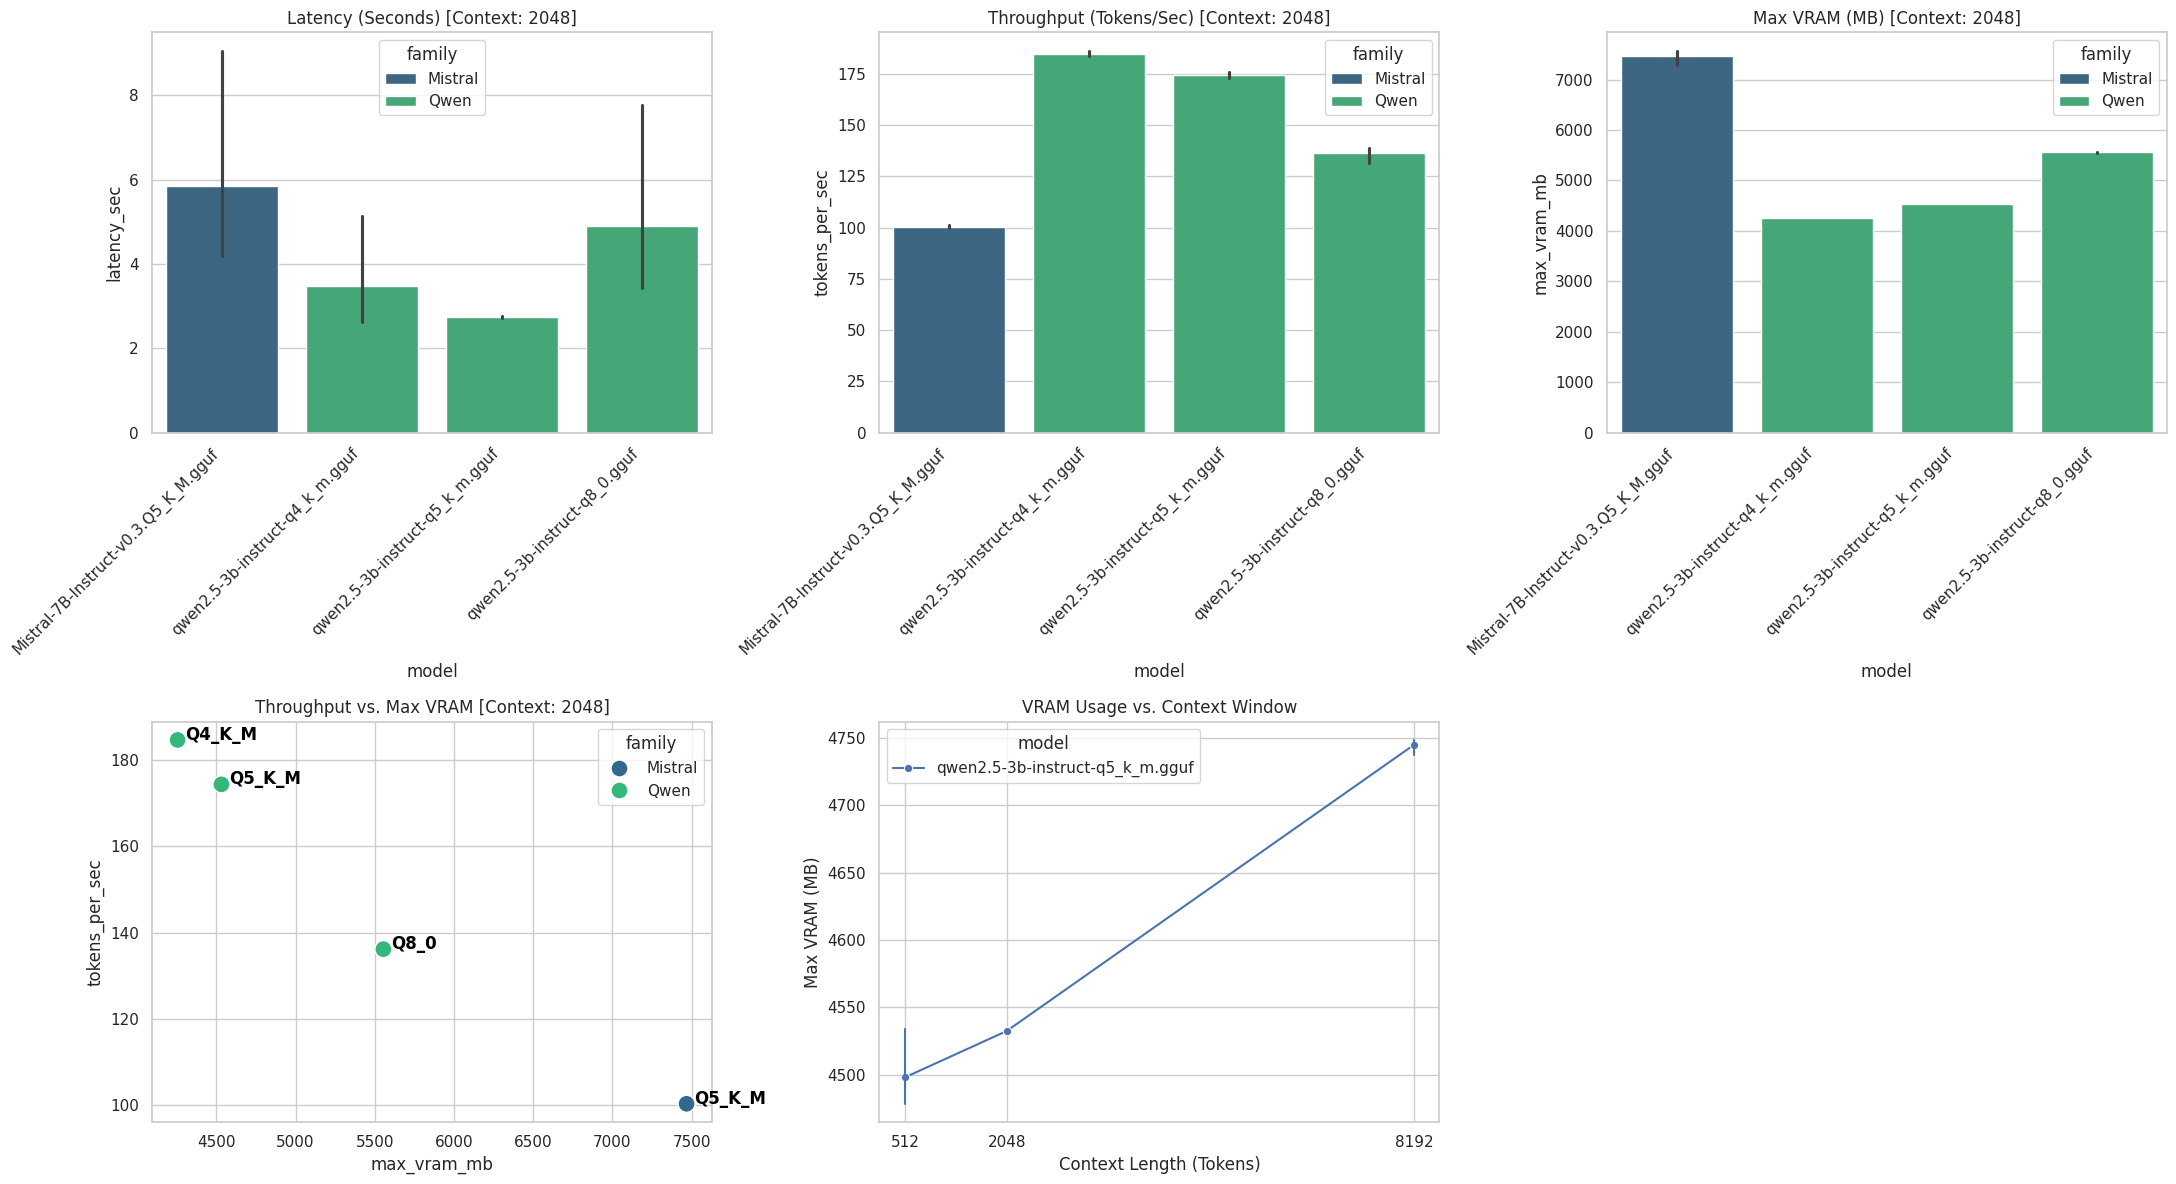
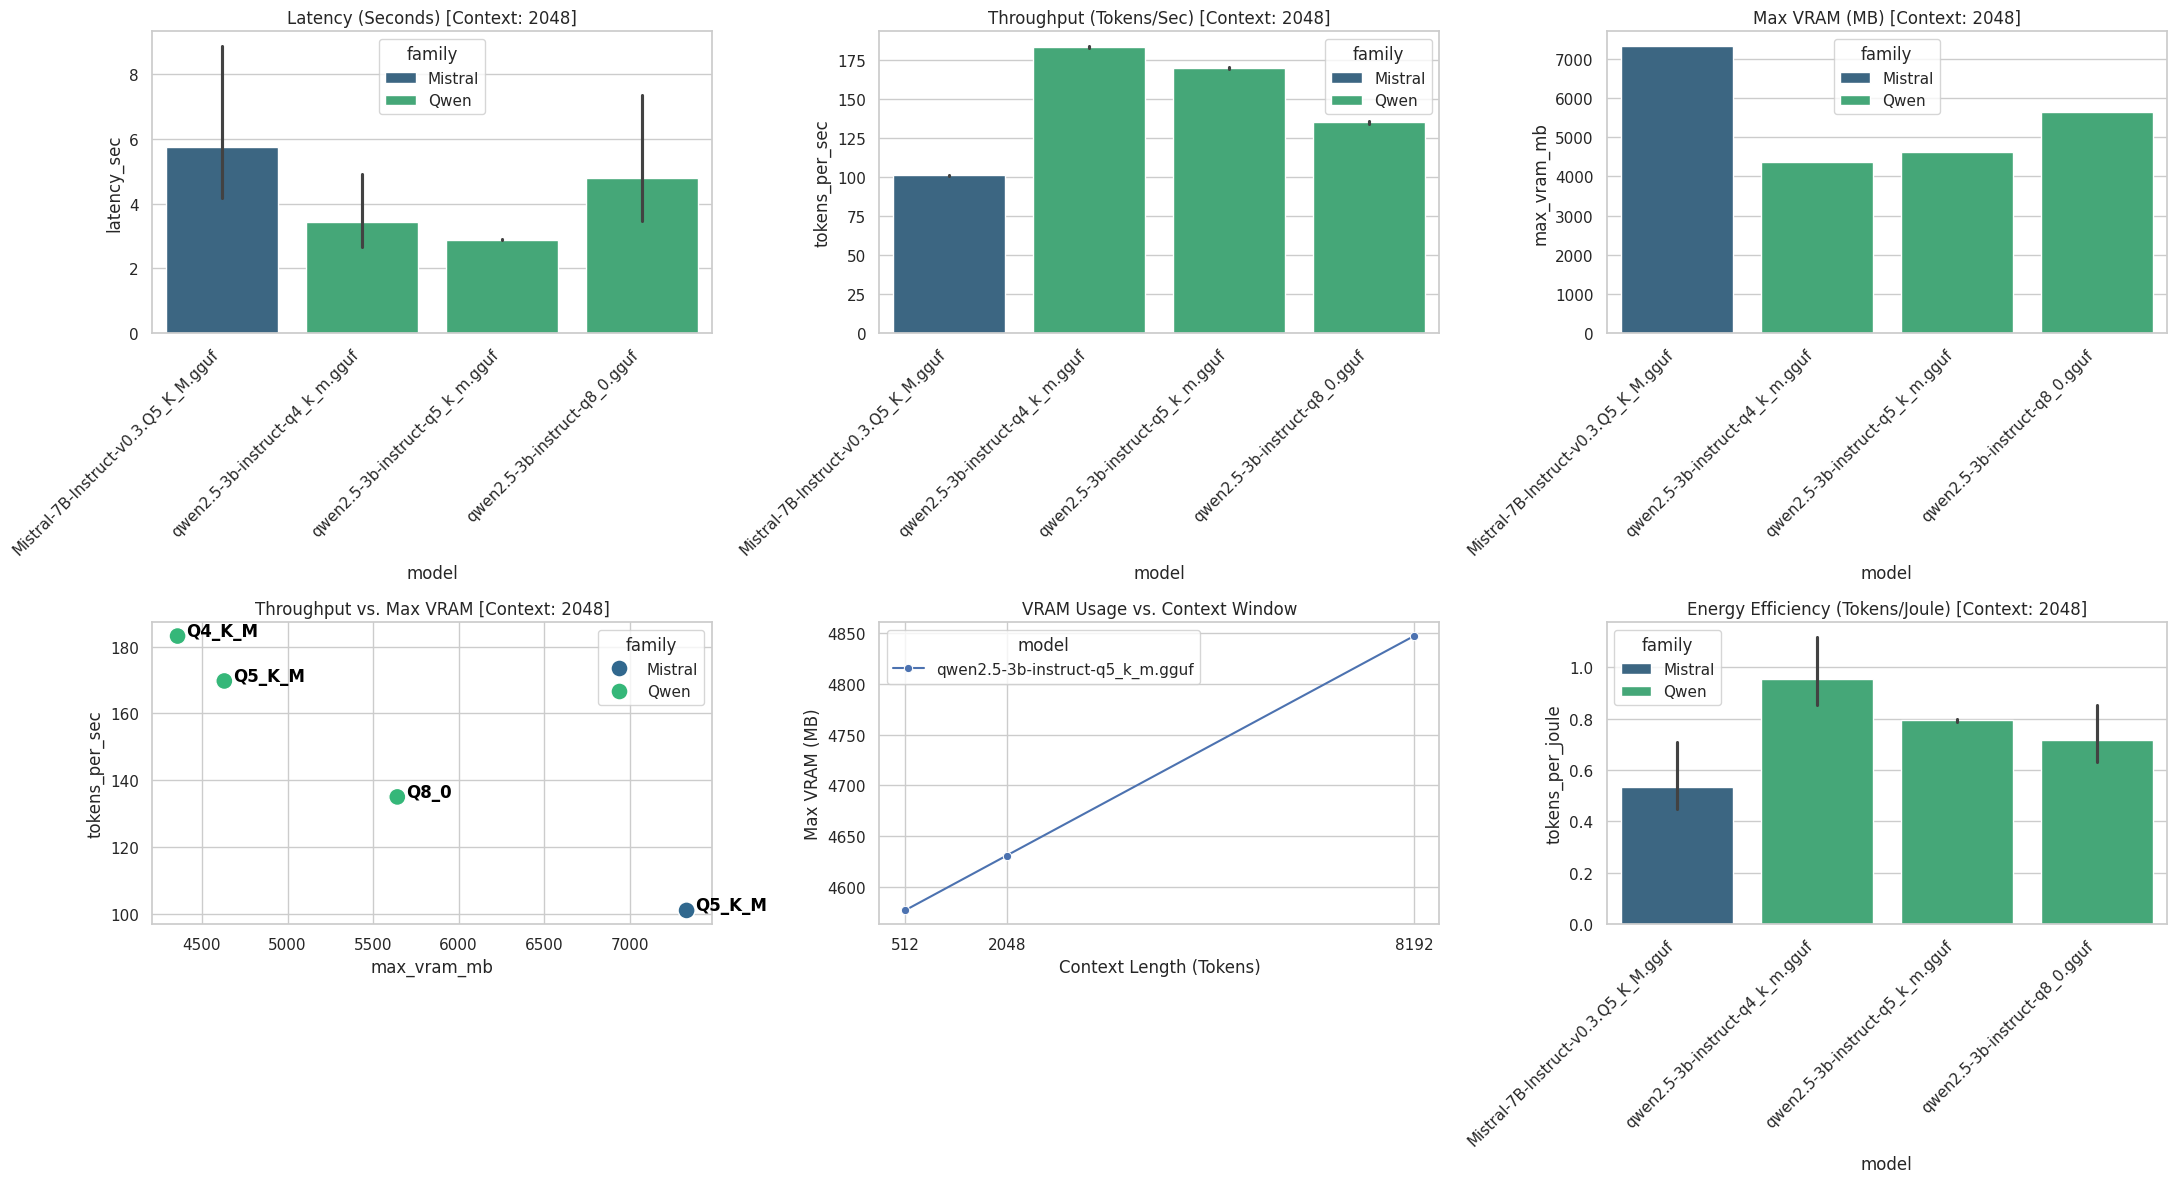
feat: implement energy telemetry and upgrade visualizer dashboard

diff --git a/src/orchestrator.py b/src/orchestrator.py
@@ -9,7 +9,7 @@ import re
 import statistics
 import pynvml
 
-def monitor_vram(stop_event, vram_usage_list):
+def monitor_hardware(stop_event, vram_usage_list, power_usage_list):
     try:
         pynvml.nvmlInit()
         device_count = pynvml.nvmlDeviceGetCount()
@@ -20,6 +20,11 @@ def monitor_vram(stop_event, vram_usage_list):
         while not stop_event.is_set():
             info = pynvml.nvmlDeviceGetMemoryInfo(handle)
             vram_usage_list.append(info.used / (1024 ** 2)) # in MB
+            
+            # Read power usage in milliwatts and convert to Watts
+            power_mw = pynvml.nvmlDeviceGetPowerUsage(handle)
+            power_usage_list.append(power_mw / 1000.0)
+            
             time.sleep(0.1)
             
         pynvml.nvmlShutdown()
@@ -29,9 +34,10 @@ def monitor_vram(stop_event, vram_usage_list):
 def run_benchmark(model_path, llama_cli_path, context_length=2048, prompt="Explain transformers in simple terms."):
     stop_event = threading.Event()
     vram_usage = []
+    power_usage = []
     
-    # Start VRAM monitor in background
-    monitor_thread = threading.Thread(target=monitor_vram, args=(stop_event, vram_usage))
+    # Start hardware monitor in background
+    monitor_thread = threading.Thread(target=monitor_hardware, args=(stop_event, vram_usage, power_usage))
     monitor_thread.start()
     
     start_time = time.time()
@@ -75,11 +81,12 @@ def run_benchmark(model_path, llama_cli_path, context_length=2048, prompt="Expla
     
     end_time = time.time()
     
-    # Stop VRAM monitoring
+    # Stop hardware monitoring
     stop_event.set()
     monitor_thread.join()
     
     max_vram = max(vram_usage) if vram_usage else 0.0
+    avg_power = statistics.mean(power_usage) if power_usage else 0.0
     latency = end_time - start_time
     
     # Remove ANSI escape codes for cleaner regex matching
@@ -106,13 +113,17 @@ def run_benchmark(model_path, llama_cli_path, context_length=2048, prompt="Expla
                 
     model_name = os.path.basename(model_path)
     family = "Qwen" if "qwen" in model_name.lower() else "Mistral" if "mistral" in model_name.lower() else "Unknown"
+    
+    tokens_per_joule = (tokens_per_sec / avg_power) if avg_power > 0 else 0.0
         
     return {
         "model": model_name,
         "family": family,
         "latency_sec": round(latency, 2),
         "tokens_per_sec": round(tokens_per_sec, 2),
-        "max_vram_mb": round(max_vram, 2)
+        "max_vram_mb": round(max_vram, 2),
+        "avg_power_watts": round(avg_power, 2),
+        "tokens_per_joule": round(tokens_per_joule, 4)
     }
 
 
@@ -178,19 +189,23 @@ def main():
             # Calculate metrics average and std deviation
             tps_list = [m['tokens_per_sec'] for m in run_metrics]
             vram_list = [m['max_vram_mb'] for m in run_metrics]
+            power_list = [m['avg_power_watts'] for m in run_metrics]
             
             avg_tps = statistics.mean(tps_list)
             std_tps = statistics.stdev(tps_list) if len(tps_list) > 1 else 0.0
             avg_vram = statistics.mean(vram_list)
             std_vram = statistics.stdev(vram_list) if len(vram_list) > 1 else 0.0
+            avg_power = statistics.mean(power_list)
+            std_power = statistics.stdev(power_list) if len(power_list) > 1 else 0.0
             
             print(f"  --> Avg Throughput: {avg_tps:.2f} ± {std_tps:.2f} tokens/s")
-            print(f"  --> Avg Max VRAM: {avg_vram:.2f} ± {std_vram:.2f} MB\n")
+            print(f"  --> Avg Max VRAM: {avg_vram:.2f} ± {std_vram:.2f} MB")
+            print(f"  --> Avg Power: {avg_power:.2f} ± {std_power:.2f} W\n")
         
     print(f"Saving results to {output_csv}")
     with open(output_csv, mode="w", newline="") as f:
         # Added new columns for dataset expansion
-        writer = csv.DictWriter(f, fieldnames=["model", "family", "context_length", "run_number", "latency_sec", "tokens_per_sec", "max_vram_mb"])
+        writer = csv.DictWriter(f, fieldnames=["model", "family", "context_length", "run_number", "latency_sec", "tokens_per_sec", "max_vram_mb", "avg_power_watts", "tokens_per_joule"])
         writer.writeheader()
         for r in results:
             writer.writerow(r)

diff --git a/src/visualizer.py b/src/visualizer.py
@@ -83,8 +83,14 @@ def create_dashboard():
         axes[1, 1].set_xlabel('Context Length (Tokens)')
         axes[1, 1].set_ylabel('Max VRAM (MB)')
         
-    # Hide the empty subplot at [1, 2]
-    axes[1, 2].axis('off')
+    # 6. Energy Efficiency Plot
+    if 'tokens_per_joule' in df_2048.columns:
+        sns.barplot(data=df_2048, x='model', y='tokens_per_joule', hue='family', palette=palette, ax=axes[1, 2])
+        axes[1, 2].set_title('Energy Efficiency (Tokens/Joule) [Context: 2048]')
+        axes[1, 2].tick_params(axis='x', rotation=45)
+        axes[1, 2].set_xticklabels(axes[1, 2].get_xticklabels(), ha='right')
+    else:
+        axes[1, 2].axis('off')
 
     plt.tight_layout()
     output_img = os.path.join(results_dir, "dashboard.png")
